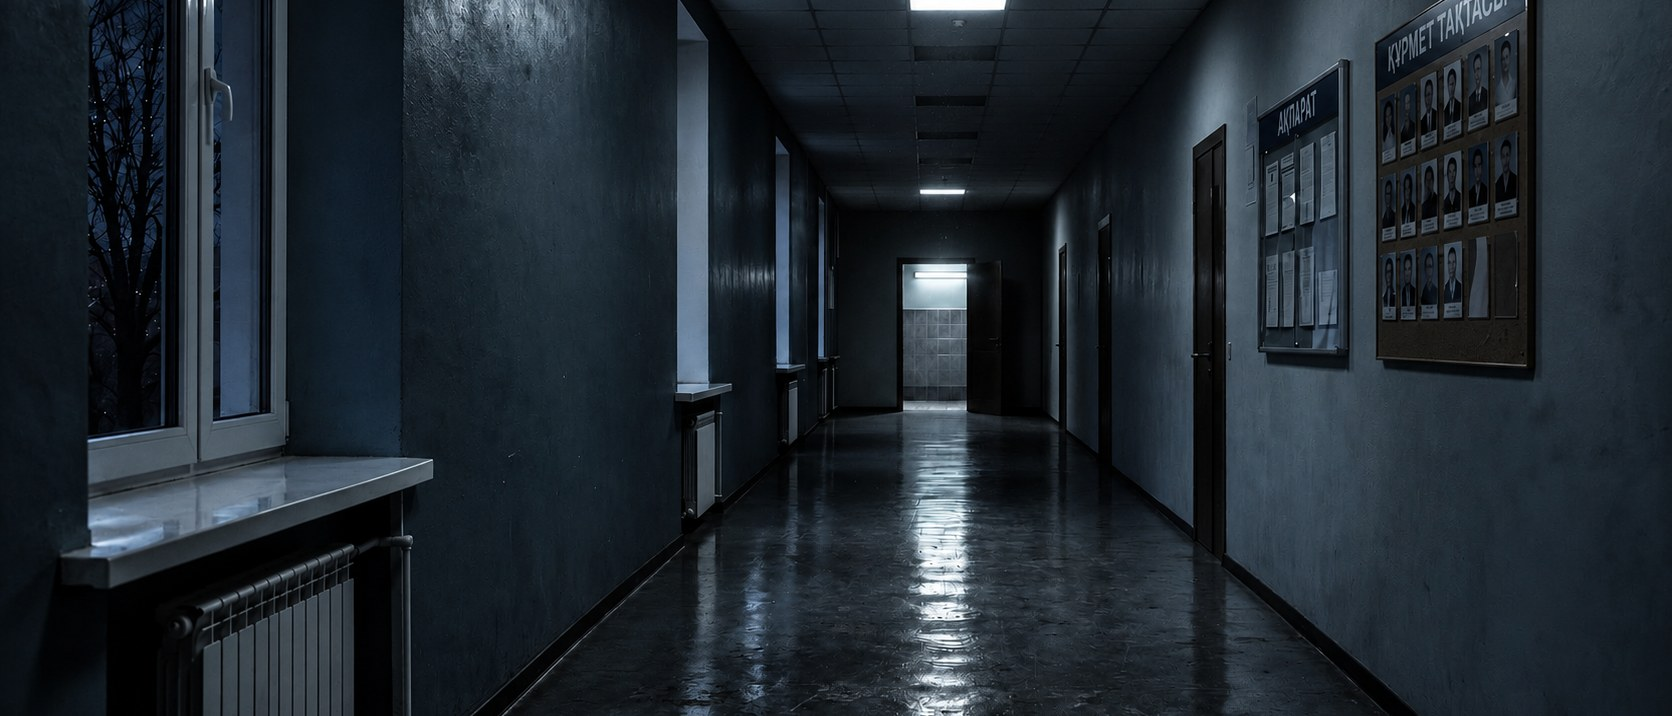
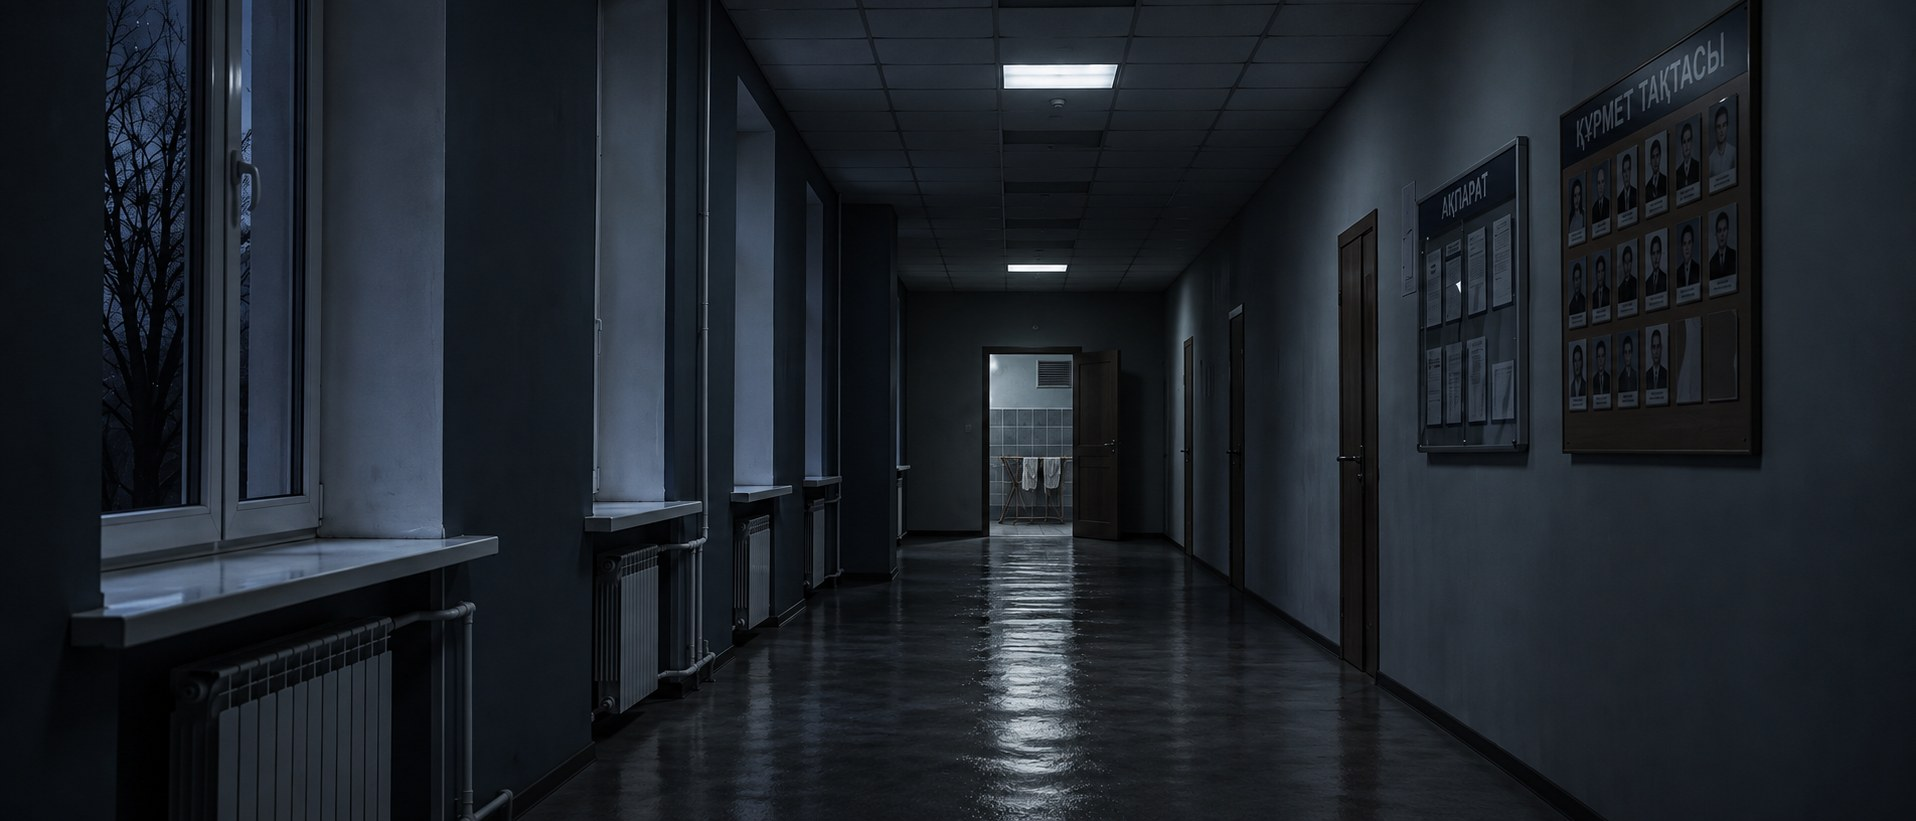
BORI colour page: variant E rebuilt from fresh renders (corridor by window base, door, washroom)

diff --git a/public/bori/cvet/index.html b/public/bori/cvet/index.html
@@ -99,9 +99,10 @@
   <section class="var" id="E">
     <h2><span>E</span>ВЫБОР КУАНЫША</h2>
     <div class="sub">Цвет, который выбрали режиссёр и сценарист по кадру с ногами (25.09). Почти монохром: холодная сталь с едва заметной синевой, без зелёного, чёрные задавлены, свет только на лампе и мокрых бликах.</div>
-    <div class="grid"><img src="img/E-etalon-nogi.jpg" alt=""><img src="img/E-koridor.jpg" alt=""><img src="img/E-dver.jpg" alt=""></div>
+    <div class="grid"><img src="img/E-koridor.jpg" alt=""><img src="img/E-dver.jpg" alt=""><img src="img/E-prach.jpg" alt=""></div>
+    <div class="grid" style="margin-top:12px"><img src="img/E-etalon-nogi.jpg" alt=""></div>
         <div class="sw"><div style="background:#070809;color:#889">тень</div><div style="background:#373a3f;color:#cde">средний</div><div style="background:#9b9fa6;color:#233">свет</div><div style="background:#e0b83c;color:#332">глаза</div></div>
-    <div class="note">Первый кадр — эталон Куаныша, коридор и дверь покрашены под него. Тени глубокие, свет только от ламп и мокрых бликов, зелёного нет.</div>
+    <div class="note">Коридор, подъезд к двери и прачечная нарисованы заново в этом цвете с нуля (25.09), не перекраска. Ниже — эталонный кадр Куаныша. Тени глубокие, свет только от ламп и мокрых бликов, зелёного нет.</div>
   </section>
 
   <div class="foot">Taurus Asia Production · Neyra Vision Studio · AI-превиз — Colibri Studio · 23.09.2026</div>
